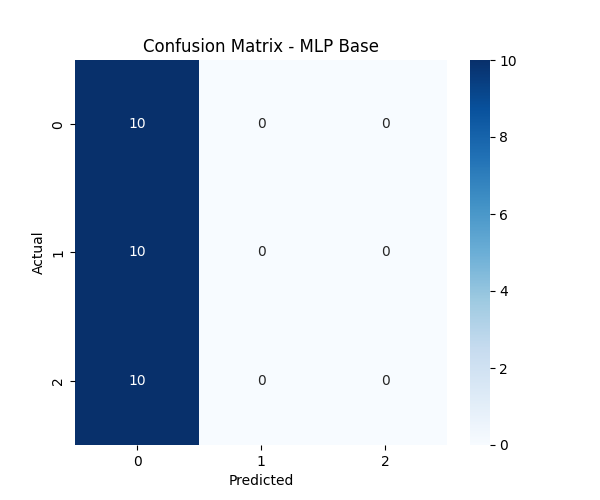
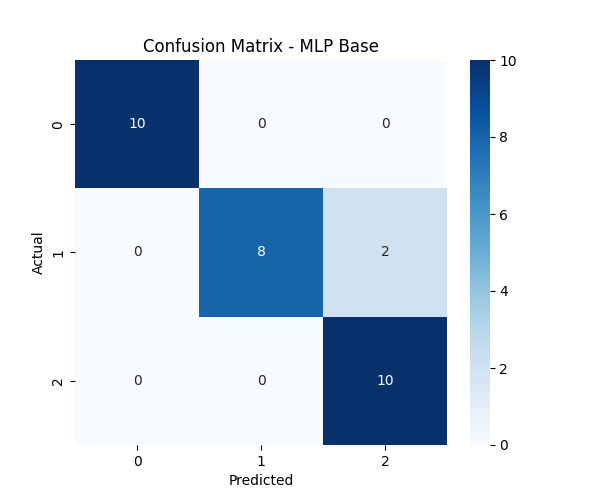
-scaler

Changed region(s): [[0.12, 0.36, 0.75, 0.9]]

diff --git a/src/models/mlp/mlp.py b/src/models/mlp/mlp.py
@@ -1,6 +1,6 @@
 import numpy as np
 from .optimizers import SGD
-
+from .layers import Dense
 class MLP:
     def __init__(self, layers, optimizer=SGD()):
         self.history = {'loss': [], 'accuracy': [], 'val_loss': [], 'val_accuracy': []}
@@ -12,11 +12,11 @@ class MLP:
 
             last_output_size = None
             for j in range(i -1, -1, -1):
-                if hasattr(self.layers[j], 'output_size'):
+                if isinstance(self.layers[j], Dense):
                     last_output_size = self.layers[j].output_size
                     break
 
-            if(hasattr(self.layers[i], 'input_size')):
+            if isinstance(self.layers[i], Dense):
                 if self.layers[i].input_size is None:
                     self.layers[i].input_size = last_output_size
                     self.layers[i]._init_weights()
@@ -24,9 +24,9 @@ class MLP:
                 if self.optimizer:
                     self.layers[i].optimizer = self.optimizer
     
-    def forward(self, X):
+    def forward(self, X, training=False):
         for layer in self.layers:
-            X = layer.forward(X)
+            X = layer.forward(X, training)
         return X 
     
     def backward(self, dA):
@@ -48,7 +48,7 @@ class MLP:
                 X_batch = X_train[i:i+batch_size]
                 y_batch = y_train[i:i+batch_size]
 
-                output = self.forward(X_batch)
+                output = self.forward(X_batch, training=True)
                 
                 loss = -np.sum(y_batch * np.log(output + 1e-8)) / y_batch.shape[0]
 
@@ -58,8 +58,9 @@ class MLP:
                 
                 epoch_loss += loss
 
+            output = self.forward(X_train)
             loss = epoch_loss / (X_train.shape[0] // batch_size)
-            accuracy = np.mean(np.argmax(output, axis=1) == np.argmax(y_batch, axis=1))
+            accuracy = np.mean(np.argmax(output, axis=1) == np.argmax(y_train, axis=1))
 
             if len(validation) == 2:
                 output = self.forward(validation[0])
@@ -87,26 +88,23 @@ class MLP:
     def summary(self):
         print("Network Summary:")
         print("=" * 40)
-        print(f"{'Layer':<10}{'Name':<15}{'Input':<10}{'Output':<10}{'Activation':<10}")
+        print(f"{'Layer':<10}{'Input':<10}{'Output':<10}{'Activation':<10}")
         print("-" * 40)
         for i, layer in enumerate(self.layers):
-            # Sprawdzamy, czy warstwa ma atrybut 'input_size'
             if hasattr(layer, 'input_size'):
                 input_size = layer.input_size
             else:
-                input_size = "N/A"  # Jeśli warstwa nie ma input_size (np. BatchNormalization)
+                input_size = "N/A"
             
-            # Sprawdzamy, czy warstwa ma atrybut 'activation'
             if hasattr(layer, 'activation'):
                 activation_name = layer.activation.__name__ if callable(layer.activation) else layer.activation
             else:
-                activation_name = "None"  # Dla warstw, które nie mają aktywacji (np. BatchNormalization)
+                activation_name = "None"
 
-            # Sprawdzamy, czy warstwa ma atrybut 'output_size'
             if hasattr(layer, 'output_size'):
                 output_size = layer.output_size
             else:
-                output_size = "N/A"  # Jeśli warstwa nie ma output_size (np. BatchNormalization)
+                output_size = "N/A"
 
-            print(f"{i+1:<10}{layer._name:<15}{input_size:<10}{output_size:<10}{activation_name:<10}")
+            print(f"{i+1:<10}{input_size:<10}{output_size:<10}{activation_name:<10}")
         print("=" * 40)

diff --git a/src/data/dataset.py b/src/data/dataset.py
@@ -60,27 +60,42 @@ def load_dataset():
         
         return X_train, X_test, y_train, y_test
 
-    def data_normalization(X):
+    def data_normalization_min_max(X_train, X_test):
         """Normalizes the dataset using Min-Max scaling."""
-        return (X - X.min()) / (X.max() - X.min())
+        min_train = X_train.min(axis=0)
+        max_train = X_train.max(axis=0)
+
+        X_train_normalized = (X_train - min_train) / (max_train - min_train)
+        X_test_normalized = (X_test - min_train) / (max_train - min_train)
+
+        return X_train_normalized, X_test_normalized
+
+    def data_normalization_scaler(X_train, X_test):
+        """Normalizes the dataset using StandardScaler (mean and std normalization)."""
+        mean_train = np.mean(X_train, axis=0)
+        std_train = np.std(X_train, axis=0)
+        
+        X_train_normalized = (X_train - mean_train) / std_train
+        X_test_normalized = (X_test - mean_train) / std_train
+        
+        return X_train_normalized, X_test_normalized
 
     def load_and_preprocess_data(file_path, test_size=0.2):
         """Loads and preprocesses data, returning train and test sets."""
         X, y = load_data(file_path)
-        X = data_normalization(X)
+        X = data_normalization_min_max(X)
         return split_dataset(X, y, test_size)
 
     file_path = os.path.join('data', 'raw', 'Iris.csv')
     X, y = load_data(file_path)
-    X_normalize = data_normalization(X)
 
-    X_train, X_test, y_train, y_test = split_dataset(X_normalize, y, test_size=0.2, stratify=True)
+    X_train, X_test, y_train, y_test = split_dataset(X, y, test_size=0.2, stratify=True)
+    X_train, X_test = data_normalization_min_max(X_train, X_test)
     return X_train, X_test, y_train, y_test, X, y
 
 from sklearn.datasets import load_iris
 from sklearn.model_selection import train_test_split
-from sklearn.preprocessing import LabelEncoder
-
+from sklearn.preprocessing import LabelEncoder, StandardScaler
 def load_keras_iris_dataset():
     iris = load_iris()
 
@@ -93,5 +108,9 @@ def load_keras_iris_dataset():
     y_one_hot = np.eye(len(np.unique(y)))[y_encoded]
 
     X_train, X_test, y_train, y_test = train_test_split(X, y_one_hot, test_size=0.2, stratify=y_one_hot)
+
+    scaler = StandardScaler()
+    X_train = scaler.fit_transform(X_train)
+    X_test = scaler.transform(X_test)
 
     return X_train, X_test, y_train, y_test, X, y_one_hot

diff --git a/src/models/mlp_run.py b/src/models/mlp_run.py
@@ -1,19 +1,19 @@
 from mlp.mlp import MLP
-from mlp.layers import Dense, BatchNormalization
+from mlp.layers import Dense, Dropout
 from mlp.optimizers import Adam
 from mlp.lr_schedules import ExponentialDecay, StepDecay
 
-lr_schedule = ExponentialDecay(initial_lr=0.01, decay_rate=0.01)
+lr_schedule = ExponentialDecay(initial_lr=0.005, decay_rate=0.01)
 adam_optimizer = Adam(schedule=lr_schedule)
 model = MLP([
-    Dense(neurons=10, input_size=4, activation='relu'),
-    Dense(neurons=8, activation='relu'),
+    Dense(neurons=4, input_size=4, activation='relu'),
+    Dense(neurons=4, activation='relu'),
     Dense(neurons=3, activation='softmax')
 ], optimizer=adam_optimizer)
 
 from sklearn.datasets import load_iris
 from sklearn.model_selection import train_test_split
-from sklearn.preprocessing import LabelEncoder
+from sklearn.preprocessing import LabelEncoder, StandardScaler
 import numpy as np
 
 def load_keras_iris_dataset():
@@ -28,6 +28,10 @@ def load_keras_iris_dataset():
 
     X_train, X_test, y_train, y_test = train_test_split(X, y_one_hot, test_size=0.2, stratify=y_one_hot)
 
+    # scaler = StandardScaler()
+    # X_train = scaler.fit_transform(X_train)
+    # X_test = scaler.transform(X_test)
+    
     return X_train, X_test, y_train, y_test, X, y_one_hot
 
 model.summary()
@@ -64,7 +68,3 @@ def plot_history(history, save_path="training_history.png"):
     print(f"Plot saved as {save_path}")
 
 plot_history(history)
-
-
-#TODO -> sprawdzenie tego val_lossa wzgledem lossa, jest mniejszy. Sprawdzenie jak wygladaja te roznice ok?
-### patrzac niby po tf, to tak ma byc? Ale no, trzeba sprawdzic. W teorii loss -> dazymy do najmniejszego, val_loss -> moze poskakac, praktyka odwrotnie.

diff --git a/src/models/mlp/layers.py b/src/models/mlp/layers.py
@@ -30,7 +30,7 @@ class Dense:
             self.weights = np.random.randn(self.input_size, self.output_size) * 0.01
         self.biases = np.zeros((1, self.output_size))
 
-    def forward(self, X):
+    def forward(self, X, training=False):
         self.input = X
         self.z = np.dot(X, self.weights) + self.biases
         
@@ -53,25 +53,18 @@ class Dense:
 
         return dX
 
-class BatchNormalization:
-    def __init__(self, momentum=0.9, epsilon=1e-5):
-        self._name = "BatchNorm"
-        self.momentum = momentum
-        self.epsilon = epsilon
-        self.running_mean = None
-        self.running_var = None
+class Dropout:
+    def __init__(self, rate=0.3):
+        self._name = "Dropout"
+        self.rate = rate
+        self.mask = None
 
-    def forward(self, X):
-        if self.running_mean is None:
-            self.running_mean = np.mean(X, axis=0)
-            self.running_var = np.var(X, axis=0)
-        
-        self.batch_mean = np.mean(X, axis=0)
-        self.batch_var = np.var(X, axis=0)
-    
-        self.X_norm = (X - self.batch_mean) / np.sqrt(self.batch_var + self.epsilon)
-        
-        return self.X_norm
-    
+    def forward(self, X, training=False):
+        if training:
+            self.mask = (np.random.rand(*X.shape) > self.rate) / (1.0 - self.rate)
+            return X * self.mask
+        else:
+            return X
+
     def backward(self, dA):
-        return dA
+        return dA * self.mask

diff --git a/src/models/mlp/lr_schedules.py b/src/models/mlp/lr_schedules.py
@@ -1,18 +1,22 @@
 import numpy as np
 
 class ExponentialDecay:
-    def __init__(self, initial_lr, decay_rate):
+    def __init__(self, initial_lr, decay_rate, min_lr=0):
         self.initial_lr = initial_lr
         self.decay_rate = decay_rate
+        self.min_lr = min_lr
 
     def get_lr(self, epoch):
-        return self.initial_lr * np.exp(-self.decay_rate * epoch)
+        lr = self.initial_lr * np.exp(-self.decay_rate * epoch)
+        return max(self.min_lr, lr)
 
 class StepDecay:
-    def __init__(self, initial_lr, drop_factor, step_size):
+    def __init__(self, initial_lr, drop_factor, step_size, min_lr=0):
         self.initial_lr = initial_lr
         self.drop_factor = drop_factor
         self.step_size = step_size
+        self.min_lr = min_lr
 
     def get_lr(self, epoch):
-        return self.initial_lr * (self.drop_factor ** (epoch // self.step_size))
+        lr = self.initial_lr * (self.drop_factor ** (epoch // self.step_size))
+        return max(self.min_lr, lr)

diff --git a/src/main.py b/src/main.py
@@ -17,7 +17,7 @@ from src.visualization.explore_data import analyze_data
 from src.visualization.analyze_training_results import analyze_training_results
 import numpy as np
 def main():
-    X_train, X_test, y_train, y_test, X, y = load_keras_iris_dataset()
+    X_train, X_test, y_train, y_test, X, y = load_dataset()
     #analyze_data(X, y)
     results = {}
 
